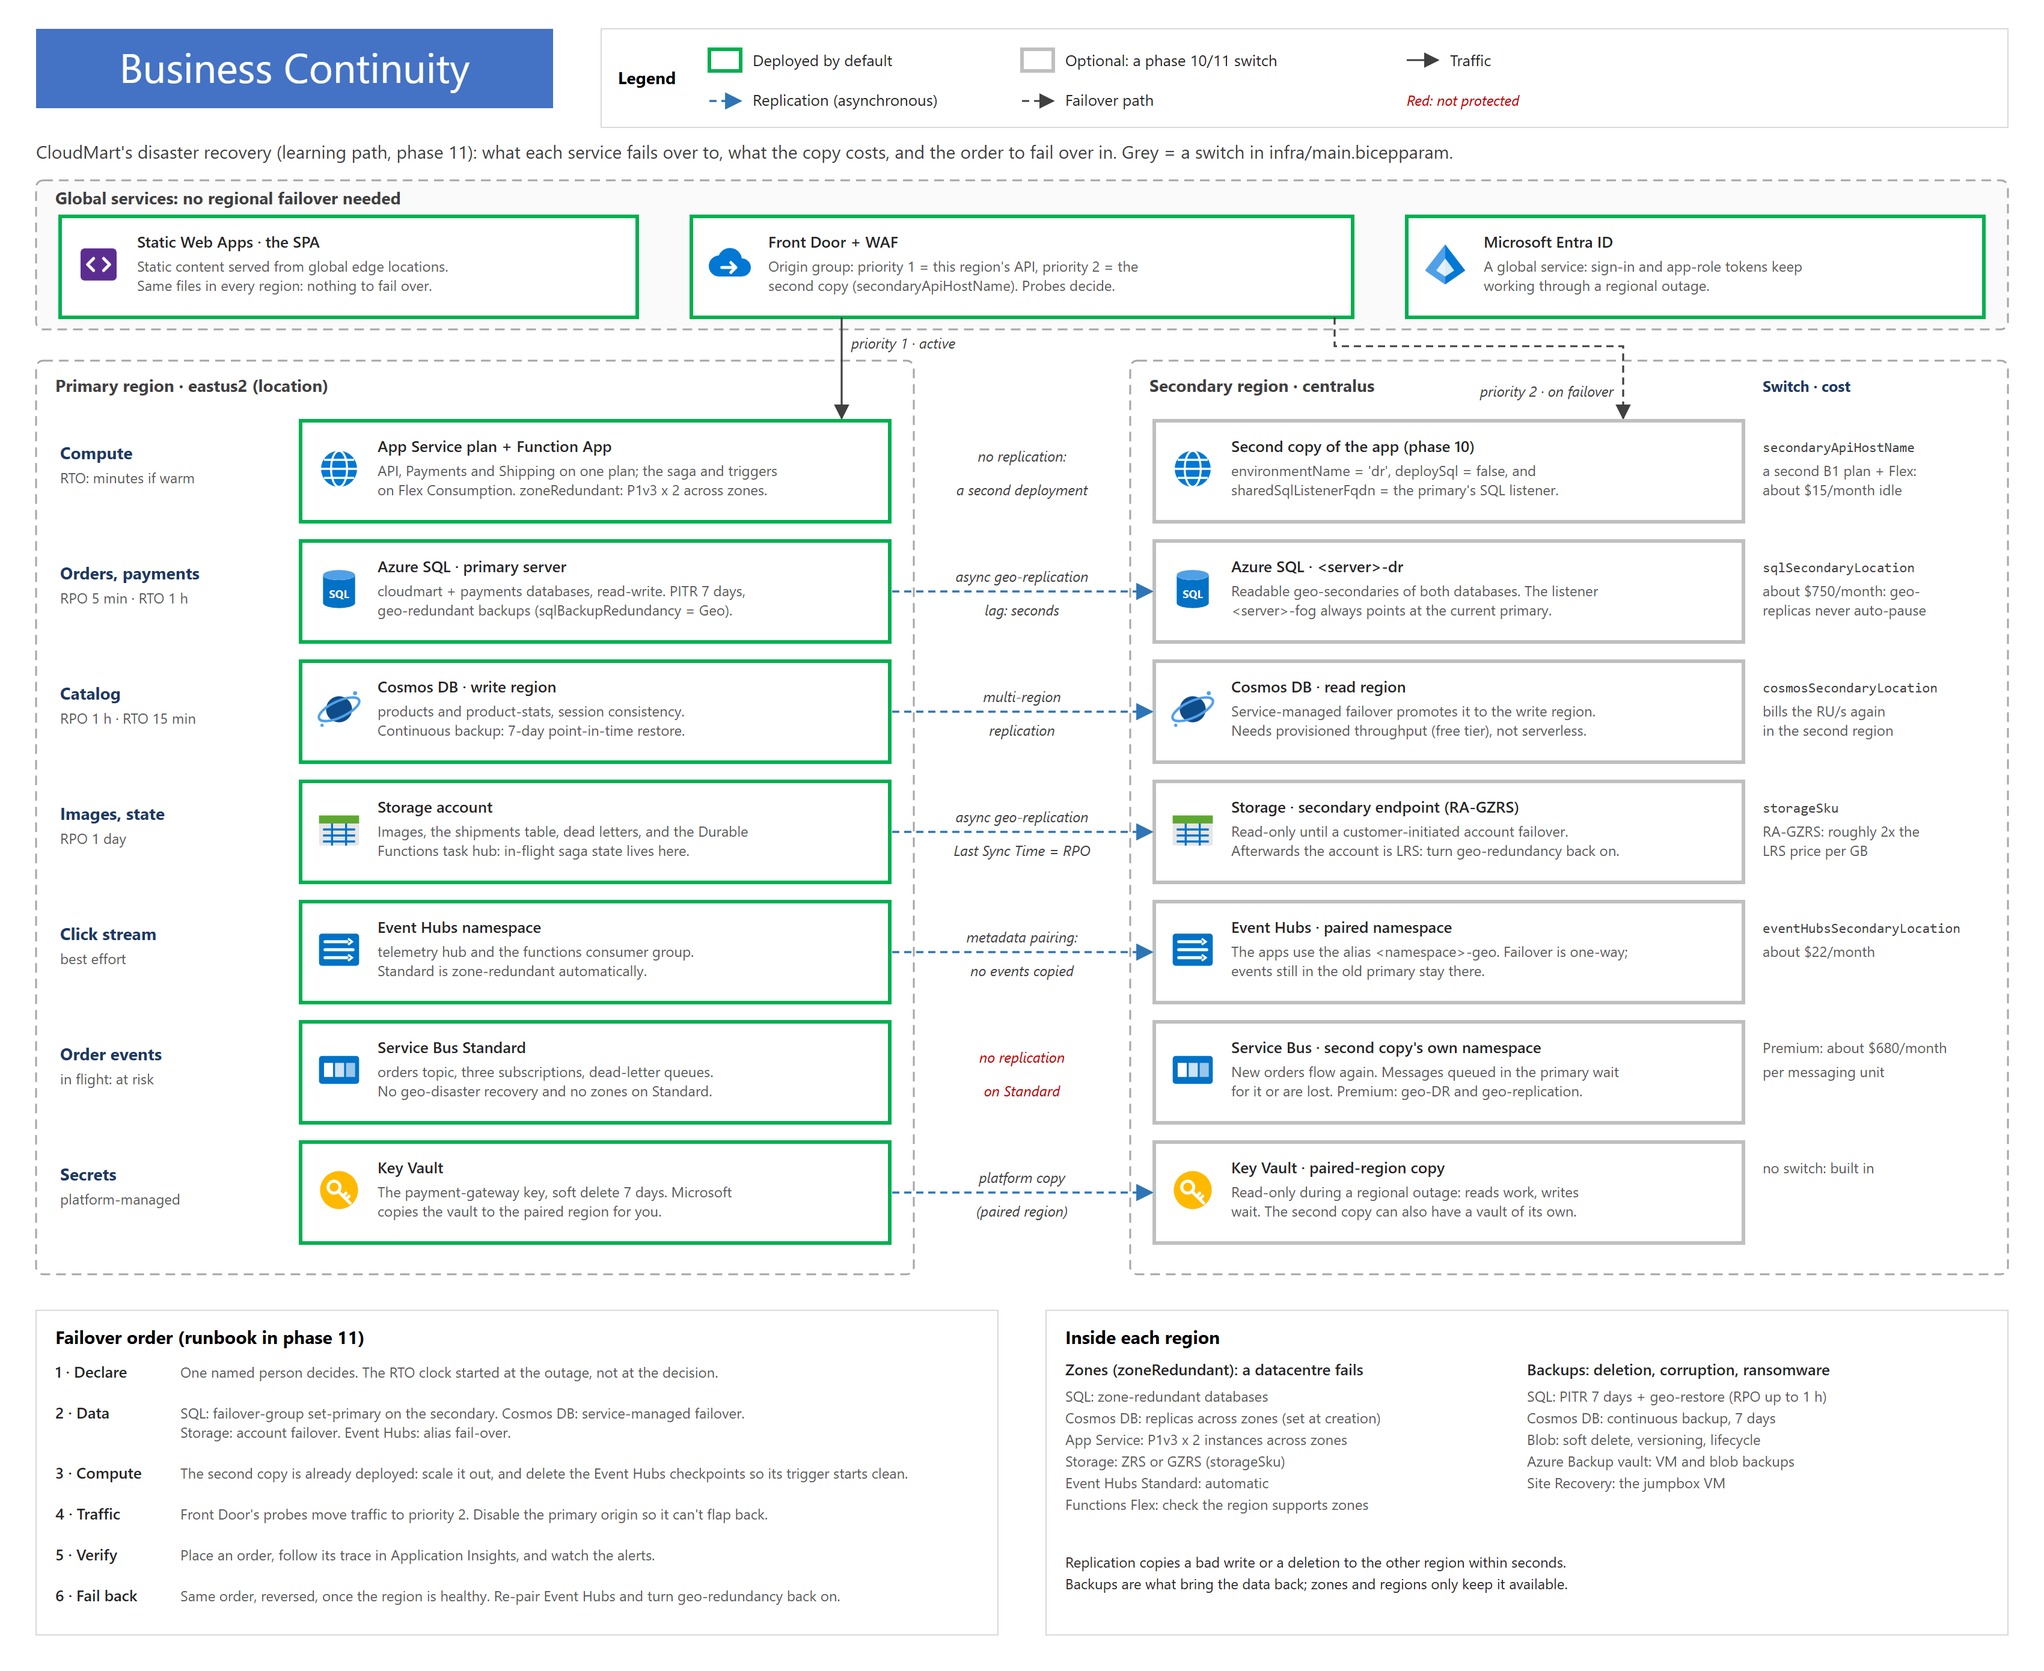
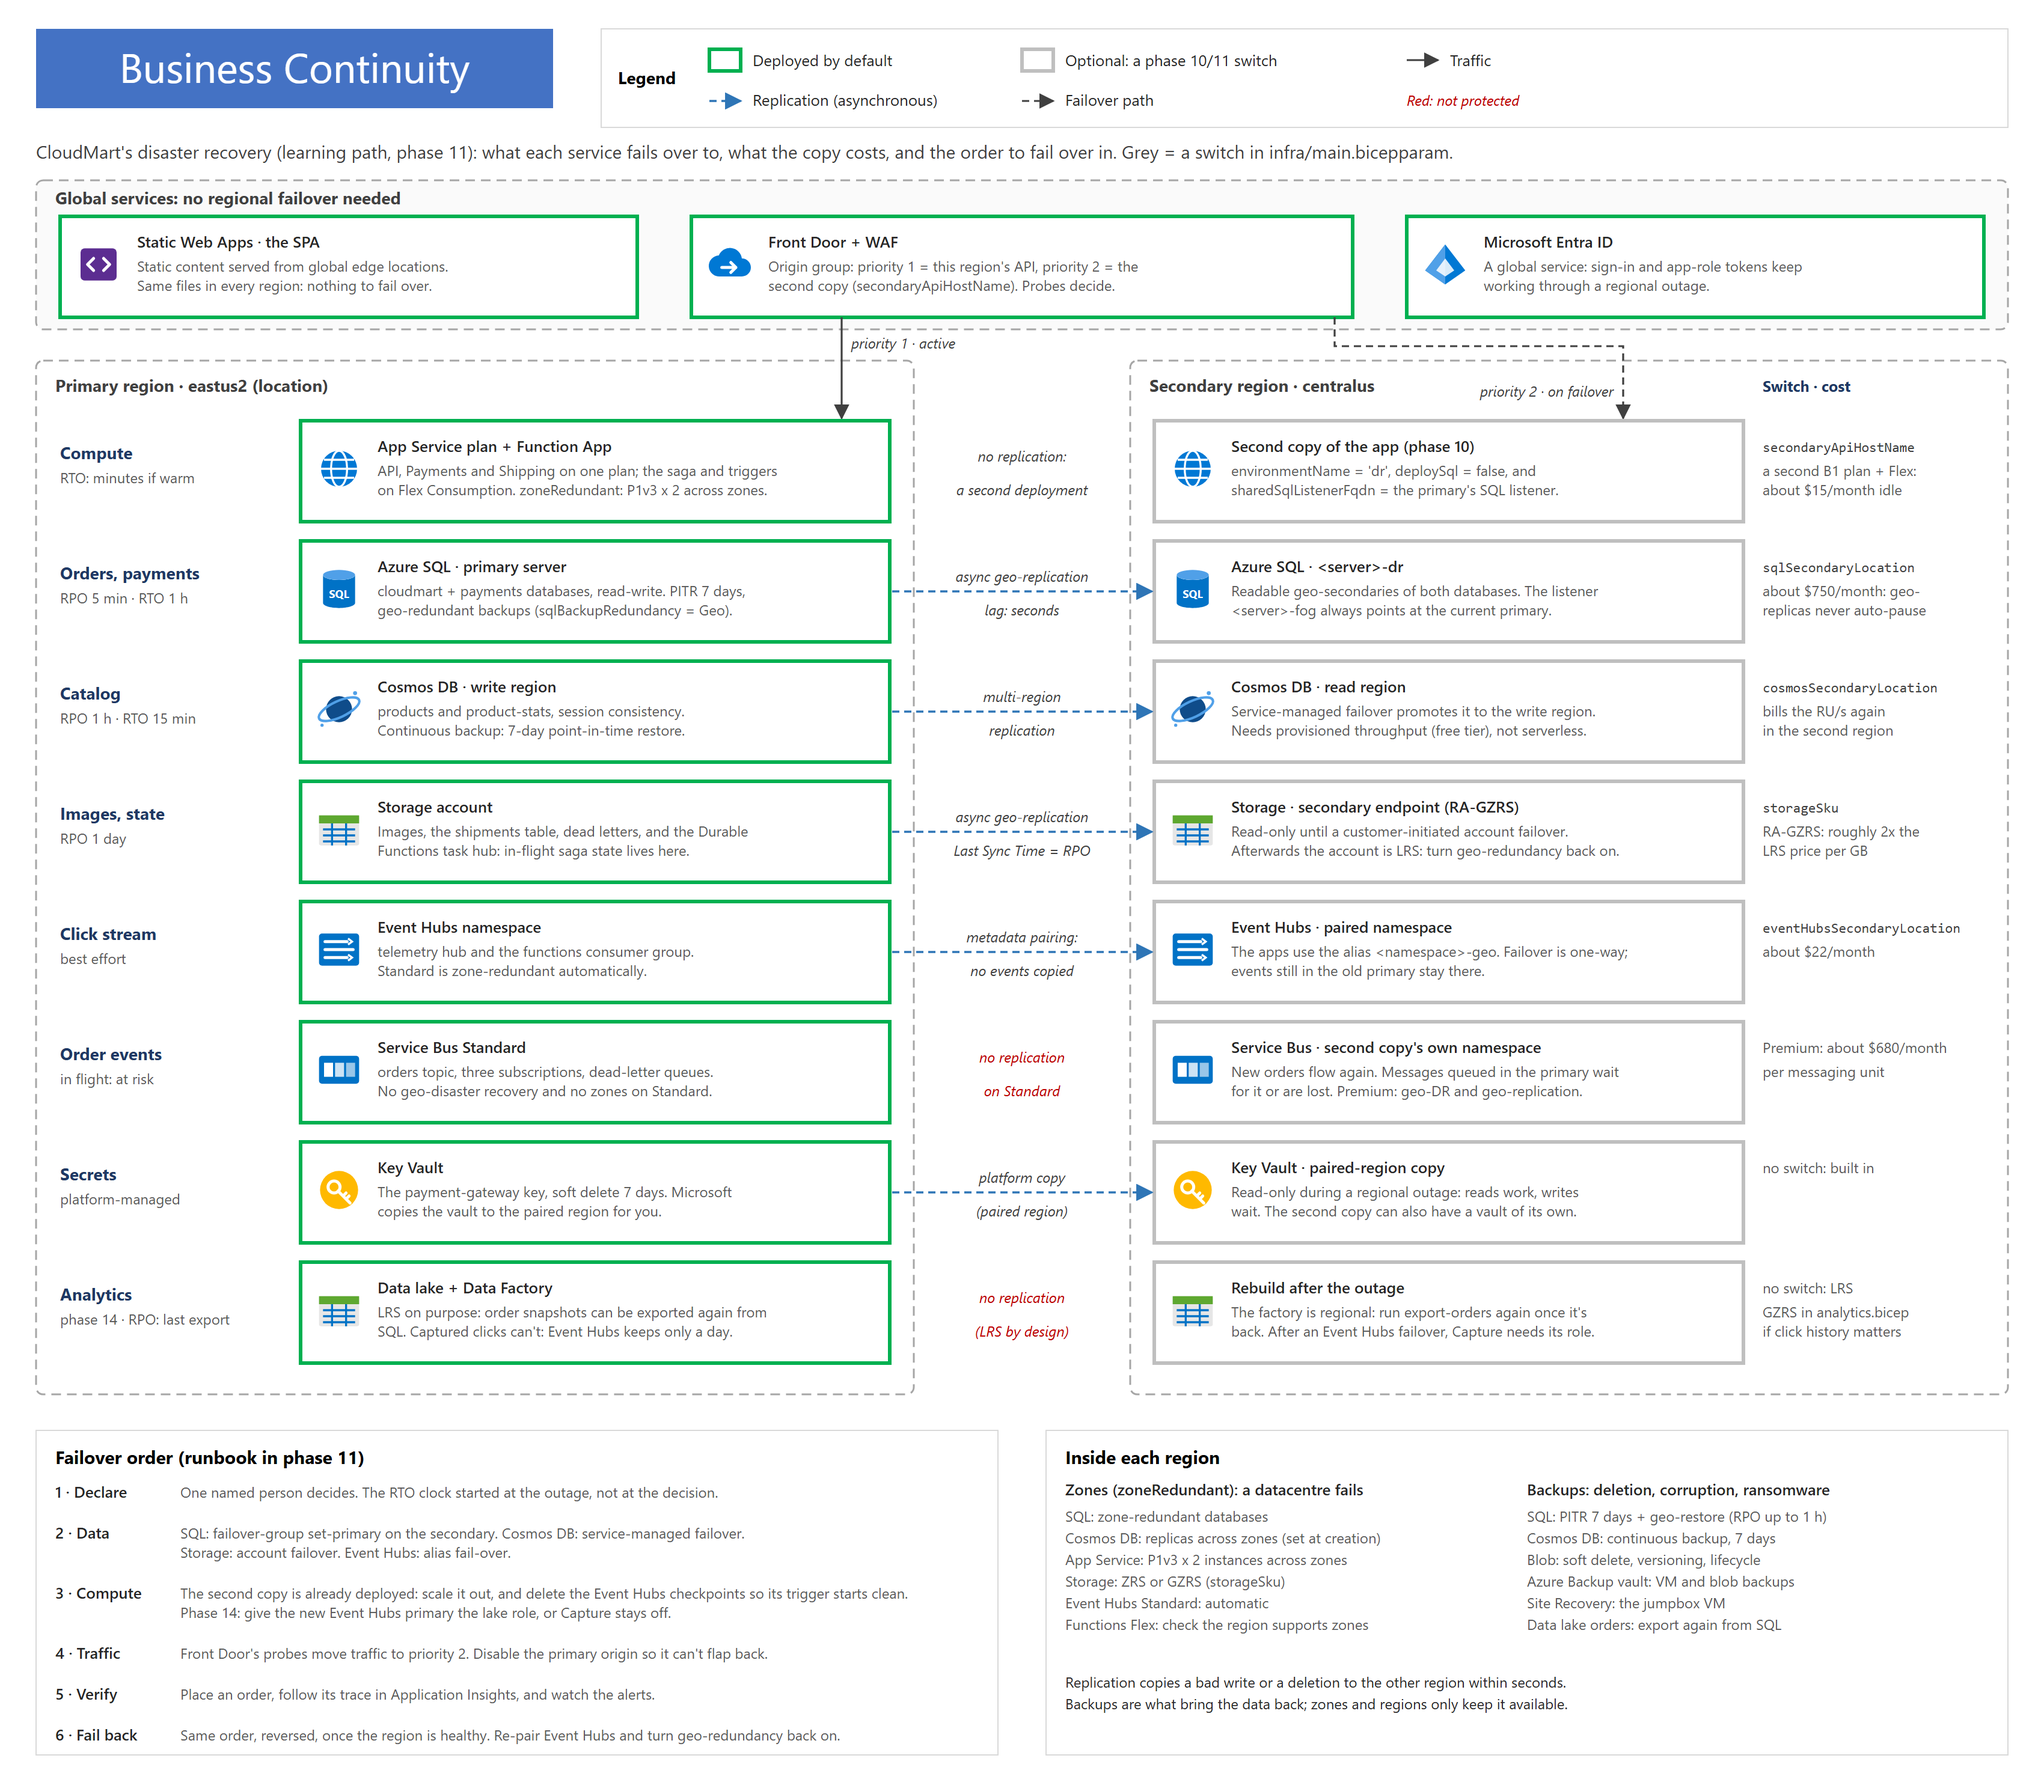
Add phase 14 to the continuity and operations views
Continuity (docs/continuity.svg + PNG, phase 11 runbook):
- An Analytics row: the data lake is LRS by design. Order snapshots are
  exported again from SQL; captured clicks older than Event Hubs' one-day
  retention can't be rebuilt (GZRS in analytics.bicep if that matters).
- Runbook: after an Event Hubs failover, give the new primary namespace an
  identity and the clickstream role, or Capture stays stopped (the pairing
  copies Capture's settings, not the role). The Data Factory isn't in the
  second copy (it needs deploySql). With private endpoints on, its managed
  private endpoint targets the primary SQL server only.

Operations (docs/operations.svg + PNG): a phase 14 band. Stage 2 deploys the
factory, linked services, datasets, pipeline and alert; the nightly trigger
is created and started once with the CLI because ARM can't update a started
trigger; how a pipeline would own it (stop before deploying, start after).

diff --git a/docs/learning-path.md b/docs/learning-path.md
@@ -782,8 +782,8 @@ reach an app that can't write.
 | Step | Action | Check |
 |---|---|---|
 | 1 Declare | One named person decides to fail over. The RTO clock started at the outage, not at the decision. | Service Health shows a regional incident, not just a problem in your app |
-| 2 Data | **SQL:** `az sql failover-group set-primary` on `<server>-dr`, with `--allow-data-loss` if the primary is unreachable. **Cosmos DB:** service-managed failover. **Storage:** customer-initiated account failover. **Event Hubs:** `georecovery-alias fail-over`. | Each service reports the second region as primary |
-| 3 Compute | The phase 10 second copy is already deployed with `deploySql = false` and `sharedSqlListenerFqdn` set to the listener. Scale it out, and delete the Event Hubs checkpoints. | `/health/ready` is green in the second region |
+| 2 Data | **SQL:** `az sql failover-group set-primary` on `<server>-dr`, with `--allow-data-loss` if the primary is unreachable. **Cosmos DB:** service-managed failover. **Storage:** customer-initiated account failover. **Event Hubs:** `georecovery-alias fail-over`. With phase 14's Capture on, give the new primary namespace a system-assigned identity and **Storage Blob Data Contributor** on the lake's `clickstream` container: the pairing copies Capture's settings, not its role, so Capture stays stopped until you do. | Each service reports the second region as primary |
+| 3 Compute | The phase 10 second copy is already deployed with `deploySql = false` and `sharedSqlListenerFqdn` set to the listener. Scale it out, and delete the Event Hubs checkpoints. Phase 14's Data Factory isn't in the second copy (it needs `deploySql`), so the nightly export waits for the primary region. | `/health/ready` is green in the second region |
 | 4 Traffic | Front Door's probes have already moved traffic to priority 2. Disable the primary origin so traffic can't flap back while it's half healthy. | The Platform page shows the second region |
 | 5 Verify | Place an order and follow its trace; watch the phase 7 alerts. | The order confirms, with no dead letters |
 | 6 Fail back | Once the primary region is healthy, do the same in reverse. **SQL** and **Cosmos DB:** switch primary and write region back. **Storage:** turn geo-redundancy on again, because an account failover leaves it LRS. **Event Hubs:** pair again. | The same checks, in the first region |
@@ -806,6 +806,13 @@ reach an app that can't write.
   storage account fails over, or when the primary region returns.
 - **Event Hubs:** events nobody had read yet in the primary namespace. The click stream is best effort, so that's
   accepted.
+- **The phase 14 data lake:** it's LRS on purpose, so it's unavailable with its region and can be lost with it.
+  - **Order snapshots:** run `export-orders` again once the factory is back. The data comes from SQL, which survived.
+  - **Captured clicks:** these can't be rebuilt beyond Event Hubs' one-day retention. If that history matters, move
+    the lake up the storage ladder to ZRS or GZRS (`analytics.bicep`).
+  - **SQL failover with private endpoints on:** the factory's managed private endpoint points at the primary server
+    only. If SQL fails over while the factory is still up, add and approve one for `<server>-dr`, or the export
+    can't reach the listener.
 
 **The second copy's identities.** The second copy's managed identities are different principals. Before the drill, run
 [grant-managed-identities.sql](../deploy/sql/grant-managed-identities.sql) once more on the **primary** server, with
